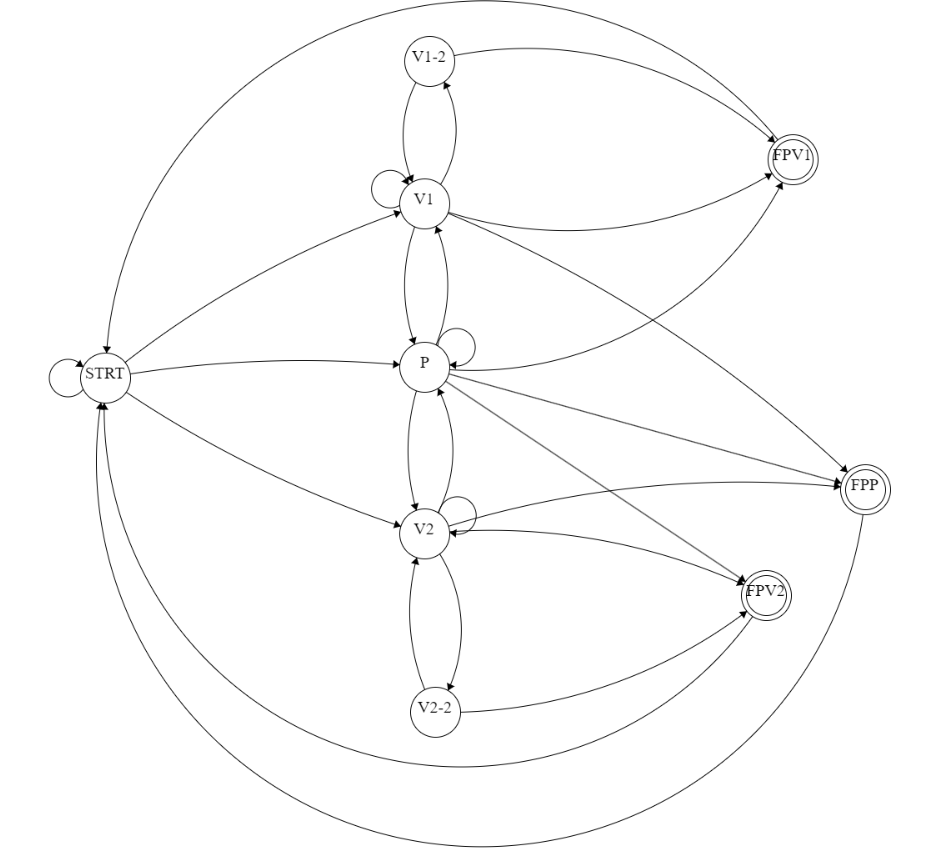
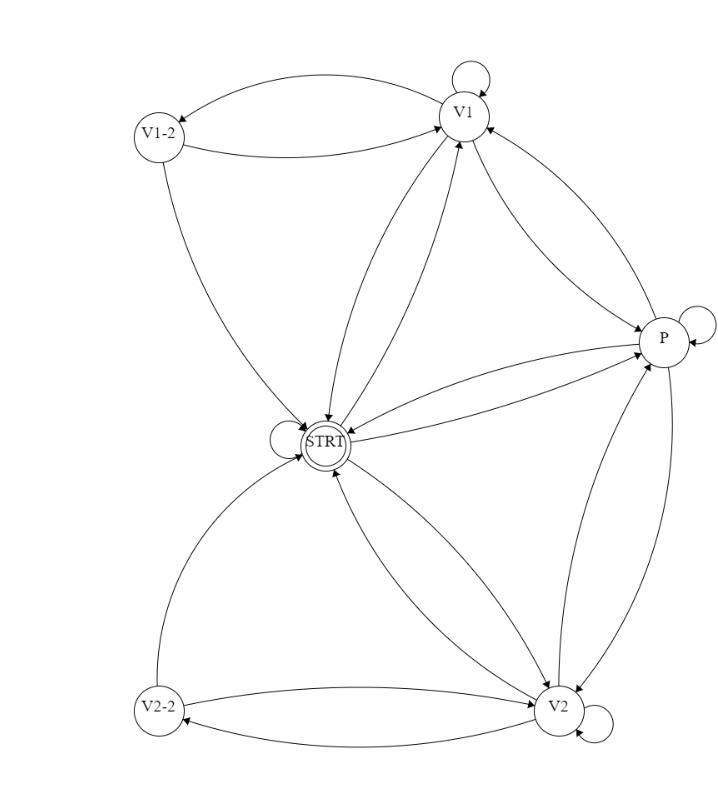
fsm with only strt as final state

diff --git a/fsm.md b/fsm.md
@@ -22,9 +22,9 @@ OkMatches: whether or not the number of matches is ok (>4)
 | Play | okmin4 | max | MoveP1 | MoveP2 | OutputWM | OutputWG | State | Target | comment                           |
 | ---- | ------ | --- | ------ | ------ | -------- | -------- | ----- | ------ | --------------------------------- |
 | 0    | -      | -   | -      | -      | -        | -        | STRT  | STRT   |                                   |
-| 0    | -      | -   | -      | -      | -        | -        | FPV1  | STRT   | reset                             |
-| 0    | -      | -   | -      | -      | -        | -        | FPV2  | STRT   | reset                             |
-| 0    | -      | -   | -      | -      | -        | -        | FPP   | STRT   | reset                             |
+| 0    | -      | -   | -      | -      | -        | -        | STRT  | STRT   | reset                             |
+| 0    | -      | -   | -      | -      | -        | -        | STRT  | STRT   | reset                             |
+| 0    | -      | -   | -      | -      | -        | -        | STRT  | STRT   | reset                             |
 | 1    | -      | -   | 01     | 11     | 01       | 01       | STRT  | V1     | sasso-forbice                     |
 | 1    | -      | -   | 10     | 01     | 01       | 01       | STRT  | V1     | carta-sasso                       |
 | 1    | -      | -   | 11     | 10     | 01       | 01       | STRT  | V1     | forbice-carta                     |
@@ -43,45 +43,45 @@ OkMatches: whether or not the number of matches is ok (>4)
 | 1    | -      | 0   | 11     | 01     | 10       | 10       | P     | V2     | forbice-sasso                     |
 | 1    | -      | 0   | 01     | 10     | 10       | 10       | P     | V2     | sasso-carta                       |
 | 1    | -      | 0   | 10     | 11     | 10       | 10       | P     | V2     | carta-forbice                     |
-| 1    | 1      | 1   | 01     | 01     | 00       | 00       | P     | FPP    | sasso-sasso     fromeventowineven |
-| 1    | 1      | 1   | 10     | 10     | 00       | 00       | P     | FPP    | carta-carta     fromeventowineven |
-| 1    | 1      | 1   | 11     | 11     | 00       | 00       | P     | FPP    | forbice-forbice fromeventowineven |
-| 1    | 1      | 1   | 01     | 11     | 01       | 01       | P     | FPV1   | sasso-forbice fromeventowin1      |
-| 1    | 1      | 1   | 10     | 01     | 01       | 01       | P     | FPV1   | carta-sasso   fromeventowin1      |
-| 1    | 1      | 1   | 11     | 10     | 01       | 01       | P     | FPV1   | forbice-carta fromeventowin1      |
-| 1    | 1      | 1   | 11     | 01     | 10       | 10       | P     | FPV2   | forbice-sasso fromeventowin2      |
-| 1    | 1      | 1   | 01     | 10     | 10       | 10       | P     | FPV2   | sasso-carta   fromeventowin2      |
-| 1    | 1      | 1   | 10     | 11     | 10       | 10       | P     | FPV2   | carta-forbice fromeventowin2      |
+| 1    | 1      | 1   | 01     | 01     | 00       | 00       | P     | STRT   | sasso-sasso     fromeventowineven |
+| 1    | 1      | 1   | 10     | 10     | 00       | 00       | P     | STRT   | carta-carta     fromeventowineven |
+| 1    | 1      | 1   | 11     | 11     | 00       | 00       | P     | STRT   | forbice-forbice fromeventowineven |
+| 1    | 1      | 1   | 01     | 11     | 01       | 01       | P     | STRT   | sasso-forbice fromeventowin1      |
+| 1    | 1      | 1   | 10     | 01     | 01       | 01       | P     | STRT   | carta-sasso   fromeventowin1      |
+| 1    | 1      | 1   | 11     | 10     | 01       | 01       | P     | STRT   | forbice-carta fromeventowin1      |
+| 1    | 1      | 1   | 11     | 01     | 10       | 10       | P     | STRT   | forbice-sasso fromeventowin2      |
+| 1    | 1      | 1   | 01     | 10     | 10       | 10       | P     | STRT   | sasso-carta   fromeventowin2      |
+| 1    | 1      | 1   | 10     | 11     | 10       | 10       | P     | STRT   | carta-forbice fromeventowin2      |
 | 1    | 0      | 0   | 01     | 11     | 01       | 01       | V1    | V1-2   | sasso-forbice 1wins2time          |
 | 1    | 0      | 0   | 10     | 01     | 01       | 01       | V1    | V1-2   | carta-sasso   1wins2time          |
 | 1    | 0      | 0   | 11     | 10     | 01       | 01       | V1    | V1-2   | forbice-carta 1wins2time          |
-| 1    | 1      | 1   | 01     | 11     | 01       | 01       | V1    | FPV1   | sasso-forbice winp1               |
-| 1    | 1      | 1   | 10     | 01     | 01       | 01       | V1    | FPV1   | carta-sasso   winp1               |
-| 1    | 1      | 1   | 11     | 10     | 01       | 01       | V1    | FPV1   | forbice-carta winp1               |
+| 1    | 1      | 1   | 01     | 11     | 01       | 01       | V1    | STRT   | sasso-forbice winp1               |
+| 1    | 1      | 1   | 10     | 01     | 01       | 01       | V1    | STRT   | carta-sasso   winp1               |
+| 1    | 1      | 1   | 11     | 10     | 01       | 01       | V1    | STRT   | forbice-carta winp1               |
 | 1    | -      | 0   | 11     | 01     | 10       | 00       | V1    | P      | forbice-sasso  gotoeven           |
 | 1    | -      | 0   | 01     | 10     | 10       | 00       | V1    | P      | sasso-carta    gotoeven           |
 | 1    | -      | 0   | 10     | 11     | 10       | 00       | V1    | P      | carta-forbice  gotoeven           |
-| 1    | 1      | 1   | 11     | 01     | 10       | 00       | V1    | FPP    | forbice-sasso  wineven            |
-| 1    | 1      | 1   | 01     | 10     | 10       | 00       | V1    | FPP    | sasso-carta    wineven            |
-| 1    | 1      | 1   | 10     | 11     | 10       | 00       | V1    | FPP    | carta-forbice  wineven            |
+| 1    | 1      | 1   | 11     | 01     | 10       | 00       | V1    | STRT   | forbice-sasso  wineven            |
+| 1    | 1      | 1   | 01     | 10     | 10       | 00       | V1    | STRT   | sasso-carta    wineven            |
+| 1    | 1      | 1   | 10     | 11     | 10       | 00       | V1    | STRT   | carta-forbice  wineven            |
 | 1    | 0      | 0   | 11     | 01     | 10       | 10       | V2    | V2-2   | forbice-sasso  2wins2time         |
 | 1    | 0      | 0   | 01     | 10     | 10       | 10       | V2    | V2-2   | sasso-carta    2wins2time         |
 | 1    | 0      | 0   | 10     | 11     | 10       | 10       | V2    | V2-2   | carta-forbice  2wins2time         |
-| 1    | 1      | 1   | 11     | 01     | 10       | 10       | V2    | FPV2   | forbice-sasso  winp2              |
-| 1    | 1      | 1   | 01     | 10     | 10       | 10       | V2    | FPV2   | sasso-carta    winp2              |
-| 1    | 1      | 1   | 10     | 11     | 10       | 10       | V2    | FPV2   | carta-forbice  winp2              |
+| 1    | 1      | 1   | 11     | 01     | 10       | 10       | V2    | STRT   | forbice-sasso  winp2              |
+| 1    | 1      | 1   | 01     | 10     | 10       | 10       | V2    | STRT   | sasso-carta    winp2              |
+| 1    | 1      | 1   | 10     | 11     | 10       | 10       | V2    | STRT   | carta-forbice  winp2              |
 | 1    | -      | 0   | 01     | 11     | 01       | 00       | V2    | P      | sasso-forbice gotoeven            |
 | 1    | -      | 0   | 10     | 01     | 01       | 00       | V2    | P      | carta-sasso   gotoeven            |
 | 1    | -      | 0   | 11     | 10     | 01       | 00       | V2    | P      | forbice-carta gotoeven            |
-| 1    | 1      | 1   | 01     | 11     | 01       | 00       | V2    | FPP    | sasso-forbice gotoeven            |
-| 1    | 1      | 1   | 10     | 01     | 01       | 00       | V2    | FPP    | carta-sasso   gotoeven            |
-| 1    | 1      | 1   | 11     | 10     | 01       | 00       | V2    | FPP    | forbice-carta gotoeven            |
-| 1    | -      | -   | 11     | 11     | 00       | 01       | V1-2  | FPV1   | forbice-forbice winp1             |
-| 1    | -      | -   | 01     | 01     | 00       | 01       | V1-2  | FPV1   | sasso-sasso     winp1             |
-| 1    | -      | -   | 10     | 10     | 00       | 01       | V1-2  | FPV1   | carta-carta     winp1             |
-| 1    | -      | -   | 11     | 11     | 00       | 10       | V2-2  | FPV2   | forbice-forbice winp2             |
-| 1    | -      | -   | 01     | 01     | 00       | 10       | V2-2  | FPV2   | sasso-sasso     winp2             |
-| 1    | -      | -   | 10     | 10     | 00       | 10       | V2-2  | FPV2   | carta-carta     winp2             |
+| 1    | 1      | 1   | 01     | 11     | 01       | 00       | V2    | STRT   | sasso-forbice gotoeven            |
+| 1    | 1      | 1   | 10     | 01     | 01       | 00       | V2    | STRT   | carta-sasso   gotoeven            |
+| 1    | 1      | 1   | 11     | 10     | 01       | 00       | V2    | STRT   | forbice-carta gotoeven            |
+| 1    | -      | -   | 11     | 11     | 00       | 01       | V1-2  | STRT   | forbice-forbice winp1             |
+| 1    | -      | -   | 01     | 01     | 00       | 01       | V1-2  | STRT   | sasso-sasso     winp1             |
+| 1    | -      | -   | 10     | 10     | 00       | 01       | V1-2  | STRT   | carta-carta     winp1             |
+| 1    | -      | -   | 11     | 11     | 00       | 10       | V2-2  | STRT   | forbice-forbice winp2             |
+| 1    | -      | -   | 01     | 01     | 00       | 10       | V2-2  | STRT   | sasso-sasso     winp2             |
+| 1    | -      | -   | 10     | 10     | 00       | 10       | V2-2  | STRT   | carta-carta     winp2             |
 | 1    | -      | 0   | 11     | 11     | 00       | 01       | V1    | V1     | forbice-forbice evenrmainv1       |
 | 1    | -      | 0   | 01     | 01     | 00       | 01       | V1    | V1     | sasso-sasso     evenrmainv1       |
 | 1    | -      | 0   | 10     | 10     | 00       | 01       | V1    | V1     | carta-carta     evenrmainv1       |
